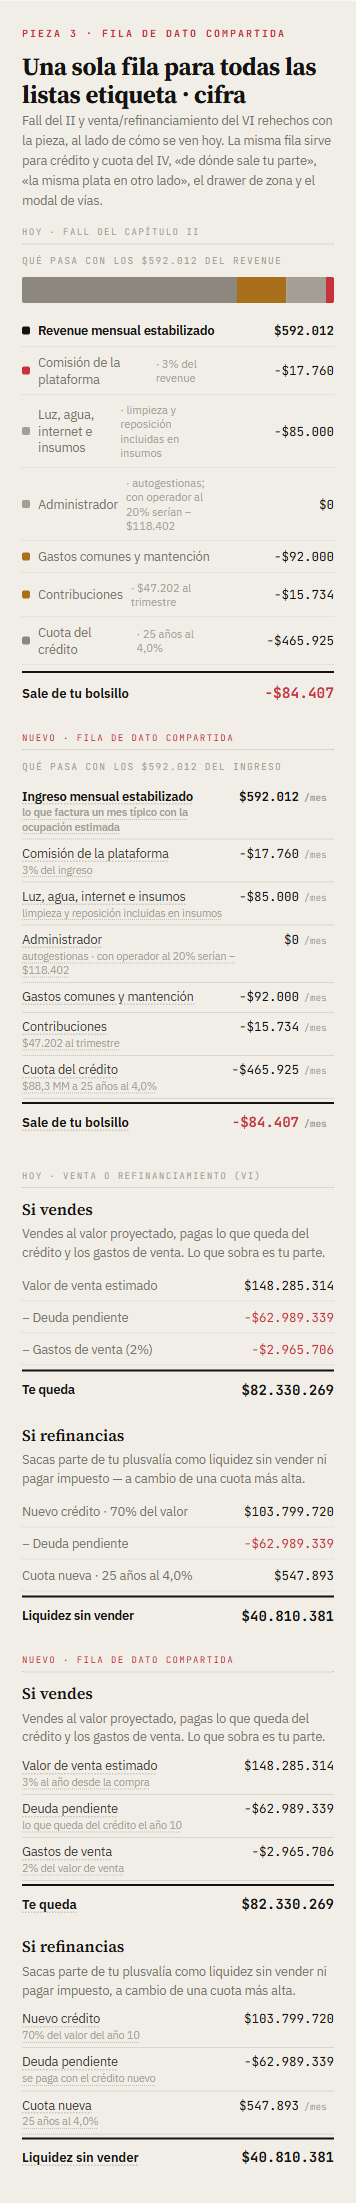
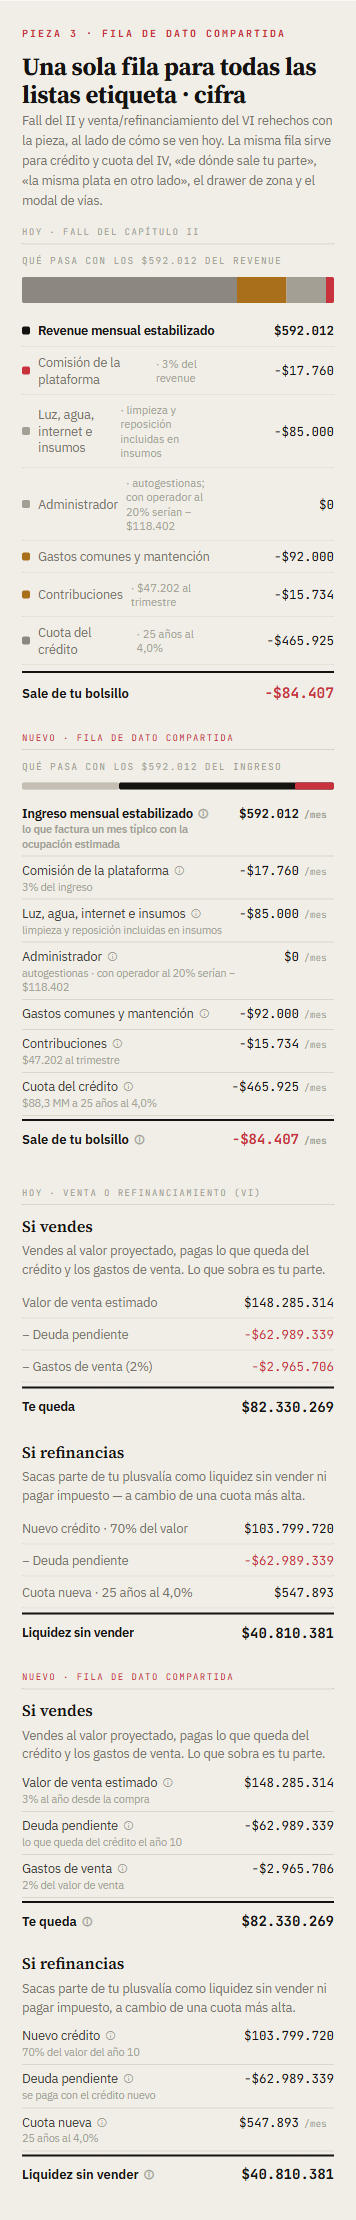
docs(wireframes): mockup de tablas — ⓘ en la fila de dato, barra semántica del Fall, tooltip de "cruza con mes negativo", "toca la celda" en 390

Changed region(s): [[0.0618, 0.0309, 0.9579, 0.9877], [0.7725, 0.1852, 0.8652, 0.2161], [0.4017, 0.9569, 0.4326, 0.9877]]

diff --git a/docs/wireframes/rediseno-informe/mockup-tablas.html b/docs/wireframes/rediseno-informe/mockup-tablas.html
@@ -493,6 +493,7 @@
   .mz-leg{display:flex;gap:18px;flex-wrap:wrap;margin-top:10px;font-family:var(--mono);font-size:9.5px;letter-spacing:.06em;color:var(--tx3)}
   .mz-leg span{display:inline-flex;align-items:center;gap:6px}
   .mz-leg i{width:11px;height:11px;border-radius:2px;border:1px solid var(--line);background:var(--paper2)}
+  .mz-leg .sh{display:none} [data-view="mobile"] .mz-leg .lg{display:none} [data-view="mobile"] .mz-leg .sh{display:inline}
   .mz-leg i.hoy{box-shadow:inset 0 0 0 2px var(--tx)} .mz-leg i.cruza{border-color:var(--good);position:relative} .mz-leg i.cruza::after{content:'';position:absolute;top:1px;right:1px;width:4px;height:4px;border-radius:50%;background:var(--good)}
 
   /* ── planilla ── */
@@ -518,7 +519,7 @@
   .drows{margin-top:4px}
   .drow{display:grid;grid-template-columns:1fr auto;align-items:baseline;gap:14px;min-height:30px;padding:5px 0;border-bottom:1px solid var(--line)}
   .drow .dk{font-size:12.5px;color:var(--tx2);line-height:1.35}
-  .drow .dk[title]{cursor:help;text-decoration:underline dotted var(--line2);text-underline-offset:3px}
+  .drow .tip{font-style:normal;font-family:var(--sans);font-size:11px;color:var(--tx4);margin-left:5px;cursor:help;vertical-align:1px}
   .drow .dk small{display:block;font-size:10.5px;color:var(--tx4);margin-top:1px;line-height:1.35}
   .drow .dv{font-family:var(--mono);font-size:12.5px;color:var(--tx);white-space:nowrap;text-align:right;font-variant-numeric:tabular-nums}
   .drow .dv em{font-style:normal;font-family:var(--mono);font-size:9.5px;color:var(--tx4);display:inline-block;width:30px;text-align:left;margin-left:5px}
@@ -526,6 +527,10 @@
   .drow.neg .dv{color:var(--signal)} .drow.cruza .dv{color:var(--good)}
   .drow.tot{border-top:2px solid var(--tx);border-bottom:none;margin-top:3px;padding-top:8px}
   .drow.tot .dk{color:var(--tx);font-weight:600;font-size:13px} .drow.tot .dv{font-weight:700;font-size:14px}
+  .fbar{position:relative;height:7px;margin:8px 0 10px;border-radius:2px;overflow:visible;cursor:help}
+  .fbar span{position:absolute;top:0;height:100%;border-radius:2px}
+  .fbar .fb-ing{left:0;background:var(--paper3);border:1px solid var(--line);box-sizing:border-box}
+  .fbar .fb-op{left:0;background:var(--line2)} .fbar .fb-cu{background:var(--tx)} .fbar .fb-rojo{background:var(--signal)}
   .venta2{display:grid;grid-template-columns:1fr 1fr;gap:24px} [data-view="mobile"] .venta2{grid-template-columns:1fr;gap:18px}
   .venta2 h4{font-family:var(--serif);font-size:16px;font-weight:600;margin-bottom:4px}
   .venta2 .ex{font-size:12.5px;color:var(--tx3);line-height:1.5;margin-bottom:6px;min-height:57px} [data-view="mobile"] .venta2 .ex{min-height:0}
@@ -538,11 +543,11 @@
   <div class="frozen"><b>Reglas de la pieza (para aprobar)</b>
     <ol>
       <li><strong>Matriz que se lee como matriz.</strong> Celdas cuadradas del mismo tamaño (88 px en PC, 53 px en 390), mono chica, cifra corta adentro (<code>−$312k</code>, <code>$1,2 MM</code>) y el valor exacto con veredicto en el tooltip. Ejes nombrados con dirección: arriba «→ más plazo» / «→ más tarifa» con los cuatro valores, a la izquierda «↓ más pie» / «↓ más ocupación» con los cuatro.</li>
-      <li><strong>Celda base inconfundible:</strong> anillo grueso en Ink y rótulo «hoy» pegado a la esquina; es la única con anillo. <strong>Cruza al veredicto de arriba:</strong> borde verde fino y punto. El mapa de calor queda muy tenue (máximo 8% de opacidad) y sigue el toggle Flujo/TIR del IV.</li>
+      <li><strong>Celda base inconfundible:</strong> anillo grueso en Ink y rótulo «hoy» pegado a la esquina; es la única con anillo. <strong>Cruza al veredicto de arriba:</strong> borde verde fino y punto. El mapa de calor queda muy tenue (máximo 8% de opacidad) y sigue el toggle Flujo/TIR del IV. Las celdas que cruzan con el mes en negativo lo dicen en el tooltip («cruza a COMPRAR aunque el mes quede en −$275: el veredicto lo decide el score, no el signo del mes»); en 390 la leyenda dice «toca la celda».</li>
       <li><strong>A 390 la matriz completa cabe sin scroll:</strong> cuatro celdas de 53 px más la cabecera de fila; «desliza la tabla» muere en las matrices.</li>
       <li><strong>Matriz del I transpuesta respecto de v2:</strong> tarifa en columnas (→ más tarifa), ocupación en filas (↓ más ocupación). Los percentiles van en palabras cortas en la cabecera («baja / mediana / alta / muy alta») y la frase completa («la mitad de la zona cobra menos que tú») en el tooltip. Cruza = el ingreso alcanza la frontera del dial (+4,3%): tarifa y ocupación mueven el ingreso por la misma razón, así que es la regla del motor, no una estimación.</li>
       <li><strong>Planilla:</strong> misma familia (mono, filas de 26 px, cabecera uppercase chica, totales en negrita con regla gruesa) pero es tabla y puede serlo: a 390 desliza con la primera columna fija, sin rótulo «desliza».</li>
-      <li><strong>Fila de dato compartida:</strong> una sola pieza para todas las listas etiqueta·cifra. Altura única (30 px), separador hairline, etiqueta sans con sub-línea gris opcional y tooltip (subrayado punteado), cifra mono alineada con la unidad en gris aparte, color solo semántico (rojo = sale de tu bolsillo, verde = cruza; el resto Ink; las deducciones de la venta van en Ink con su signo, ya no en rojo), total con regla gruesa y negrita. La barra apilada de colores del Fall del II se va: sus colores eran por categoría, no semánticos.</li>
+      <li><strong>Fila de dato compartida:</strong> una sola pieza para todas las listas etiqueta·cifra. Altura única (30 px), separador hairline, etiqueta sans con sub-línea gris opcional y tooltip con ⓘ junto a la etiqueta (solo donde hay tooltip), cifra mono alineada con la unidad en gris aparte, color solo semántico (rojo = sale de tu bolsillo, verde = cruza; el resto Ink; las deducciones de la venta van en Ink con su signo, ya no en rojo), total con regla gruesa y negrita. El Fall conserva una barra delgada sobre las filas con tres tonos semánticos: el largo total es el ingreso mensual, gris claro los costos de operar, Ink la cuota, y si la suma supera el ingreso el exceso va en Signal Red (la misma cifra que el total). Con flujo positivo no hay rojo y el tramo libre es lo que te queda. Sin colores de categoría ni leyenda.</li>
       <li><strong>Un solo CSS para LTR y STR, ancho 936 en todo.</strong> Este documento ya está a 936; las clases (<code>.matriz</code>, <code>.pl</code>, <code>.drow</code>) reemplazan a <code>.mx</code>, <code>.mx2</code>, <code>.tbl</code>, <code>.ind</code>, <code>.kv</code>, <code>.fall-row</code>, <code>.datarow</code>, <code>.leg-row</code> y <code>.lst</code>.</li>
     </ol>
   </div>
@@ -567,7 +572,7 @@
           <div class="mz-axis-y">↓ más pie</div>
           <div class="mz-grid"><div class="mz-corner"></div><div class="mz-colh">15<small>años</small></div><div class="mz-colh">20<small>años</small></div><div class="mz-colh">25<small>años</small></div><div class="mz-colh">30<small>años</small></div><div class="mz-rowh">15%<small>16,6 MM</small></div><div class="mz-cell neg" title="−$312.217 al mes · TIR 8,2% · BUSCAR OTRA · pie 15% ($16,6 MM) a 15 años" data-f="−$312k" data-t="8,2%" data-fn="-312217" data-tn="8.17"><span class="mz-v">−$312k</span></div><div class="mz-cell neg" title="−$186.816 al mes · TIR 9,2% · BUSCAR OTRA · pie 15% ($16,6 MM) a 20 años" data-f="−$187k" data-t="9,2%" data-fn="-186816" data-tn="9.16"><span class="mz-v">−$187k</span></div><div class="mz-cell neg" title="−$113.527 al mes · TIR 9,9% · AJUSTA SUPUESTOS · pie 15% ($16,6 MM) a 25 años" data-f="−$114k" data-t="9,9%" data-fn="-113527" data-tn="9.88"><span class="mz-v">−$114k</span></div><div class="mz-cell neg" title="−$66.238 al mes · TIR 10,4% · AJUSTA SUPUESTOS · pie 15% ($16,6 MM) a 30 años" data-f="−$66k" data-t="10,4%" data-fn="-66238" data-tn="10.41"><span class="mz-v">−$66k</span></div><div class="mz-rowh">20%<small>22,1 MM</small></div><div class="mz-cell neg" title="−$271.409 al mes · TIR 7,9% · BUSCAR OTRA · pie 20% ($22,1 MM) a 15 años" data-f="−$271k" data-t="7,9%" data-fn="-271409" data-tn="7.93"><span class="mz-v">−$271k</span></div><div class="mz-cell neg" title="−$153.384 al mes · TIR 8,7% · AJUSTA SUPUESTOS · pie 20% ($22,1 MM) a 20 años" data-f="−$153k" data-t="8,7%" data-fn="-153384" data-tn="8.74"><span class="mz-v">−$153k</span></div><div class="mz-cell neg hoy" title="−$84.407 al mes · TIR 9,3% · AJUSTA SUPUESTOS · pie 20% ($22,1 MM) a 25 años" data-f="−$84k" data-t="9,3%" data-fn="-84407" data-tn="9.31"><span class="mz-v">−$84k</span><span class="mz-hoy">hoy</span></div><div class="mz-cell neg" title="−$39.899 al mes · TIR 9,7% · AJUSTA SUPUESTOS · pie 20% ($22,1 MM) a 30 años" data-f="−$40k" data-t="9,7%" data-fn="-39899" data-tn="9.72"><span class="mz-v">−$40k</span></div><div class="mz-rowh">25%<small>27,6 MM</small></div><div class="mz-cell neg" title="−$230.601 al mes · TIR 7,7% · BUSCAR OTRA · pie 25% ($27,6 MM) a 15 años" data-f="−$231k" data-t="7,7%" data-fn="-230601" data-tn="7.74"><span class="mz-v">−$231k</span></div><div class="mz-cell neg" title="−$119.953 al mes · TIR 8,4% · AJUSTA SUPUESTOS · pie 25% ($27,6 MM) a 20 años" data-f="−$120k" data-t="8,4%" data-fn="-119953" data-tn="8.4"><span class="mz-v">−$120k</span></div><div class="mz-cell neg" title="−$55.286 al mes · TIR 8,9% · AJUSTA SUPUESTOS · pie 25% ($27,6 MM) a 25 años" data-f="−$55k" data-t="8,9%" data-fn="-55286" data-tn="8.86"><span class="mz-v">−$55k</span></div><div class="mz-cell neg" title="−$13.561 al mes · TIR 9,2% · AJUSTA SUPUESTOS · pie 25% ($27,6 MM) a 30 años" data-f="−$14k" data-t="9,2%" data-fn="-13561" data-tn="9.18"><span class="mz-v">−$14k</span></div><div class="mz-rowh">30%<small>33,1 MM</small></div><div class="mz-cell neg" title="−$189.793 al mes · TIR 7,6% · BUSCAR OTRA · pie 30% ($33,1 MM) a 15 años" data-f="−$190k" data-t="7,6%" data-fn="-189793" data-tn="7.57"><span class="mz-v">−$190k</span></div><div class="mz-cell neg" title="−$86.521 al mes · TIR 8,1% · AJUSTA SUPUESTOS · pie 30% ($33,1 MM) a 20 años" data-f="−$87k" data-t="8,1%" data-fn="-86521" data-tn="8.12"><span class="mz-v">−$87k</span></div><div class="mz-cell neg" title="−$26.166 al mes · TIR 8,5% · AJUSTA SUPUESTOS · pie 30% ($33,1 MM) a 25 años" data-f="−$26k" data-t="8,5%" data-fn="-26166" data-tn="8.49"><span class="mz-v">−$26k</span></div><div class="mz-cell cruza" title="$12.778 al mes · TIR 8,8% · COMPRAR · pie 30% ($33,1 MM) a 30 años" data-f="$13k" data-t="8,8%" data-fn="12778" data-tn="8.75"><span class="mz-v">$13k</span></div></div>
         </div>
-        <div class="mz-leg"><span><i class="hoy"></i>hoy · tu caso</span><span><i class="cruza"></i>cruza a Comprar</span><span><i></i>pasa el cursor: valor exacto y veredicto</span></div>
+        <div class="mz-leg"><span><i class="hoy"></i>hoy · tu caso</span><span><i class="cruza"></i>cruza a Comprar</span><span><i></i><span class="lg">pasa el cursor: valor exacto y veredicto</span><span class="sh">toca la celda: valor exacto y veredicto</span></span></div>
         <div class="mz-note" id="mz-note">Solo 30% de pie a 30 años cierra el mes en verde ($12.778) y es la única celda que llega a COMPRAR. Más pie y más plazo alivian la cuota; la tarifa o el precio son lo que da vuelta el signo.</div>
       </section>
 
@@ -580,9 +585,9 @@
         <div class="matriz" id="mz-i">
           <div class="mz-axis-x">→ más tarifa por noche</div>
           <div class="mz-axis-y">↓ más ocupación</div>
-          <div class="mz-grid"><div class="mz-corner"></div><div class="mz-colh" title="tres de cada cuatro avisos cobran más">$39k<small>baja</small></div><div class="mz-colh" title="la mitad de la zona cobra menos que tú">$46k<small>mediana</small></div><div class="mz-colh" title="solo uno de cada cuatro cobra más">$59k<small>alta</small></div><div class="mz-colh" title="solo uno de cada diez cobra más">$75k<small>muy alta</small></div><div class="mz-rowh" title="tres de cada cuatro deptos ocupan más">30%<small>baja</small></div><div class="mz-cell neg" title="−$315.287 al mes · BUSCAR OTRA · $39.147 por noche (tres de cada cuatro avisos cobran más) · ocupación 30% (tres de cada cuatro deptos ocupan más)"><span class="mz-v">−$315k</span></div><div class="mz-cell neg" title="−$259.107 al mes · BUSCAR OTRA · $45.552 por noche (la mitad de la zona cobra menos que tú) · ocupación 30% (tres de cada cuatro deptos ocupan más)"><span class="mz-v">−$259k</span></div><div class="mz-cell neg" title="−$143.779 al mes · AJUSTA SUPUESTOS · $58.700 por noche (solo uno de cada cuatro cobra más) · ocupación 30% (tres de cada cuatro deptos ocupan más)"><span class="mz-v">−$144k</span></div><div class="mz-cell neg cruza" title="−$275 al mes · COMPRAR · $75.061 por noche (solo uno de cada diez cobra más) · ocupación 30% (tres de cada cuatro deptos ocupan más)"><span class="mz-v">−$275</span></div><div class="mz-rowh" title="la estimación de mercado para tu depto">43%<small>estimada</small></div><div class="mz-cell neg" title="−$165.151 al mes · BUSCAR OTRA · $39.147 por noche (tres de cada cuatro avisos cobran más) · ocupación 43% (la estimación de mercado para tu depto)"><span class="mz-v">−$165k</span></div><div class="mz-cell neg hoy" title="−$84.407 al mes · AJUSTA SUPUESTOS · $45.552 por noche (la mitad de la zona cobra menos que tú) · ocupación 43% (la estimación de mercado para tu depto)"><span class="mz-v">−$84k</span><span class="mz-hoy">hoy</span></div><div class="mz-cell cruza" title="$81.347 al mes · COMPRAR · $58.700 por noche (solo uno de cada cuatro cobra más) · ocupación 43% (la estimación de mercado para tu depto)"><span class="mz-v">$81k</span></div><div class="mz-cell cruza" title="$287.596 al mes · COMPRAR · $75.061 por noche (solo uno de cada diez cobra más) · ocupación 43% (la estimación de mercado para tu depto)"><span class="mz-v">$288k</span></div><div class="mz-rowh" title="solo uno de cada cuatro ocupa más">58%<small>alta</small></div><div class="mz-cell cruza" title="$11.174 al mes · COMPRAR · $39.147 por noche (tres de cada cuatro avisos cobran más) · ocupación 58% (solo uno de cada cuatro ocupa más)"><span class="mz-v">$11k</span></div><div class="mz-cell cruza" title="$120.765 al mes · COMPRAR · $45.552 por noche (la mitad de la zona cobra menos que tú) · ocupación 58% (solo uno de cada cuatro ocupa más)"><span class="mz-v">$121k</span></div><div class="mz-cell cruza" title="$345.742 al mes · COMPRAR · $58.700 por noche (solo uno de cada cuatro cobra más) · ocupación 58% (solo uno de cada cuatro ocupa más)"><span class="mz-v">$346k</span></div><div class="mz-cell cruza" title="$625.681 al mes · COMPRAR · $75.061 por noche (solo uno de cada diez cobra más) · ocupación 58% (solo uno de cada cuatro ocupa más)"><span class="mz-v">$626k</span></div><div class="mz-rowh" title="solo uno de cada diez ocupa más">71%<small>muy alta</small></div><div class="mz-cell cruza" title="$156.813 al mes · COMPRAR · $39.147 por noche (tres de cada cuatro avisos cobran más) · ocupación 71% (solo uno de cada diez ocupa más)"><span class="mz-v">$157k</span></div><div class="mz-cell cruza" title="$290.234 al mes · COMPRAR · $45.552 por noche (la mitad de la zona cobra menos que tú) · ocupación 71% (solo uno de cada diez ocupa más)"><span class="mz-v">$290k</span></div><div class="mz-cell cruza" title="$564.127 al mes · COMPRAR · $58.700 por noche (solo uno de cada cuatro cobra más) · ocupación 71% (solo uno de cada diez ocupa más)"><span class="mz-v">$564k</span></div><div class="mz-cell cruza" title="$904.932 al mes · COMPRAR · $75.061 por noche (solo uno de cada diez cobra más) · ocupación 71% (solo uno de cada diez ocupa más)"><span class="mz-v">$905k</span></div></div>
+          <div class="mz-grid"><div class="mz-corner"></div><div class="mz-colh" title="tres de cada cuatro avisos cobran más">$39k<small>baja</small></div><div class="mz-colh" title="la mitad de la zona cobra menos que tú">$46k<small>mediana</small></div><div class="mz-colh" title="solo uno de cada cuatro cobra más">$59k<small>alta</small></div><div class="mz-colh" title="solo uno de cada diez cobra más">$75k<small>muy alta</small></div><div class="mz-rowh" title="tres de cada cuatro deptos ocupan más">30%<small>baja</small></div><div class="mz-cell neg" title="−$315.287 al mes · BUSCAR OTRA · $39.147 por noche (tres de cada cuatro avisos cobran más) · ocupación 30% (tres de cada cuatro deptos ocupan más)"><span class="mz-v">−$315k</span></div><div class="mz-cell neg" title="−$259.107 al mes · BUSCAR OTRA · $45.552 por noche (la mitad de la zona cobra menos que tú) · ocupación 30% (tres de cada cuatro deptos ocupan más)"><span class="mz-v">−$259k</span></div><div class="mz-cell neg" title="−$143.779 al mes · AJUSTA SUPUESTOS · $58.700 por noche (solo uno de cada cuatro cobra más) · ocupación 30% (tres de cada cuatro deptos ocupan más)"><span class="mz-v">−$144k</span></div><div class="mz-cell neg cruza" title="cruza a COMPRAR aunque el mes quede en −$275: el veredicto lo decide el score, no el signo del mes · $75.061 por noche (solo uno de cada diez cobra más) · ocupación 30% (tres de cada cuatro deptos ocupan más)"><span class="mz-v">−$275</span></div><div class="mz-rowh" title="la estimación de mercado para tu depto">43%<small>estimada</small></div><div class="mz-cell neg" title="−$165.151 al mes · BUSCAR OTRA · $39.147 por noche (tres de cada cuatro avisos cobran más) · ocupación 43% (la estimación de mercado para tu depto)"><span class="mz-v">−$165k</span></div><div class="mz-cell neg hoy" title="−$84.407 al mes · AJUSTA SUPUESTOS · $45.552 por noche (la mitad de la zona cobra menos que tú) · ocupación 43% (la estimación de mercado para tu depto)"><span class="mz-v">−$84k</span><span class="mz-hoy">hoy</span></div><div class="mz-cell cruza" title="$81.347 al mes · COMPRAR · $58.700 por noche (solo uno de cada cuatro cobra más) · ocupación 43% (la estimación de mercado para tu depto)"><span class="mz-v">$81k</span></div><div class="mz-cell cruza" title="$287.596 al mes · COMPRAR · $75.061 por noche (solo uno de cada diez cobra más) · ocupación 43% (la estimación de mercado para tu depto)"><span class="mz-v">$288k</span></div><div class="mz-rowh" title="solo uno de cada cuatro ocupa más">58%<small>alta</small></div><div class="mz-cell cruza" title="$11.174 al mes · COMPRAR · $39.147 por noche (tres de cada cuatro avisos cobran más) · ocupación 58% (solo uno de cada cuatro ocupa más)"><span class="mz-v">$11k</span></div><div class="mz-cell cruza" title="$120.765 al mes · COMPRAR · $45.552 por noche (la mitad de la zona cobra menos que tú) · ocupación 58% (solo uno de cada cuatro ocupa más)"><span class="mz-v">$121k</span></div><div class="mz-cell cruza" title="$345.742 al mes · COMPRAR · $58.700 por noche (solo uno de cada cuatro cobra más) · ocupación 58% (solo uno de cada cuatro ocupa más)"><span class="mz-v">$346k</span></div><div class="mz-cell cruza" title="$625.681 al mes · COMPRAR · $75.061 por noche (solo uno de cada diez cobra más) · ocupación 58% (solo uno de cada cuatro ocupa más)"><span class="mz-v">$626k</span></div><div class="mz-rowh" title="solo uno de cada diez ocupa más">71%<small>muy alta</small></div><div class="mz-cell cruza" title="$156.813 al mes · COMPRAR · $39.147 por noche (tres de cada cuatro avisos cobran más) · ocupación 71% (solo uno de cada diez ocupa más)"><span class="mz-v">$157k</span></div><div class="mz-cell cruza" title="$290.234 al mes · COMPRAR · $45.552 por noche (la mitad de la zona cobra menos que tú) · ocupación 71% (solo uno de cada diez ocupa más)"><span class="mz-v">$290k</span></div><div class="mz-cell cruza" title="$564.127 al mes · COMPRAR · $58.700 por noche (solo uno de cada cuatro cobra más) · ocupación 71% (solo uno de cada diez ocupa más)"><span class="mz-v">$564k</span></div><div class="mz-cell cruza" title="$904.932 al mes · COMPRAR · $75.061 por noche (solo uno de cada diez cobra más) · ocupación 71% (solo uno de cada diez ocupa más)"><span class="mz-v">$905k</span></div></div>
         </div>
-        <div class="mz-leg"><span><i class="hoy"></i>hoy · tu caso</span><span><i class="cruza"></i>cruza a Comprar</span><span><i></i>pasa el cursor: valor exacto y veredicto</span></div>
+        <div class="mz-leg"><span><i class="hoy"></i>hoy · tu caso</span><span><i class="cruza"></i>cruza a Comprar</span><span><i></i><span class="lg">pasa el cursor: valor exacto y veredicto</span><span class="sh">toca la celda: valor exacto y veredicto</span></span></div>
         <div class="mz-note">11 de las 16 combinaciones cruzan a COMPRAR y todas están a la derecha o debajo de tu celda: se cruza cobrando más o con más ocupación que la estimación, nunca con menos. Con la tarifa de la zona necesitas 58% de ocupación para dejar de poner plata.</div>
       </section>
 
@@ -612,7 +617,7 @@
             </table>
           </div>
           <div class="m-block"><div class="bt">c · Escenario de salida</div><div class="bq">Venta en el año 10, con la fila de dato compartida.</div>
-            <div class="drows"><div class="drow "><span class="dk" title="Precio × 1,03¹⁰">Valor del depto en el año 10<small>3% anual desde la compra</small></span><span class="dv">$148.285.314</span></div><div class="drow "><span class="dk" title="Lo que queda del crédito el año 10">Saldo de la deuda</span><span class="dv">−$62.989.339</span></div><div class="drow "><span class="dk" title="Corretaje">Comisión de venta<small>2% del valor</small></span><span class="dv">−$2.965.706</span></div><div class="drow tot"><span class="dk" title="Valor − deuda − comisión">Tu parte</span><span class="dv">$82.330.269</span></div></div>
+            <div class="drows"><div class="drow "><span class="dk">Valor del depto en el año 10<i class="tip" title="Precio × 1,03¹⁰" aria-label="Precio × 1,03¹⁰">ⓘ</i><small>3% anual desde la compra</small></span><span class="dv">$148.285.314</span></div><div class="drow "><span class="dk">Saldo de la deuda<i class="tip" title="Lo que queda del crédito el año 10" aria-label="Lo que queda del crédito el año 10">ⓘ</i></span><span class="dv">−$62.989.339</span></div><div class="drow "><span class="dk">Comisión de venta<i class="tip" title="Corretaje" aria-label="Corretaje">ⓘ</i><small>2% del valor</small></span><span class="dv">−$2.965.706</span></div><div class="drow tot"><span class="dk">Tu parte<i class="tip" title="Valor − deuda − comisión" aria-label="Valor − deuda − comisión">ⓘ</i></span><span class="dv">$82.330.269</span></div></div>
           </div>
           <div class="m-foot">Motor Franco · UF 40866 al 25 ago 2026 · umbral de cap rate STR: 5,0% (Franco, Santiago)</div>
         </div>
@@ -640,7 +645,7 @@
           </div>
           <div><div class="tag nuevo">Nuevo · fila de dato compartida</div>
             <div class="v-viz-t">Qué pasa con los $592.012 del ingreso</div>
-            <div class="drows"><div class="drow in"><span class="dk" title="ADR × ocupación × 365 ÷ 12">Ingreso mensual estabilizado<small>lo que factura un mes típico con la ocupación estimada</small></span><span class="dv">$592.012<em>/mes</em></span></div><div class="drow "><span class="dk" title="Airbnb cobra 3% al anfitrión">Comisión de la plataforma<small>3% del ingreso</small></span><span class="dv">−$17.760<em>/mes</em></span></div><div class="drow "><span class="dk" title="Costos directos declarados por ti">Luz, agua, internet e insumos<small>limpieza y reposición incluidas en insumos</small></span><span class="dv">−$85.000<em>/mes</em></span></div><div class="drow "><span class="dk" title="Comisión del administrador, si lo hubiera">Administrador<small>autogestionas · con operador al 20% serían −$118.402</small></span><span class="dv">$0<em>/mes</em></span></div><div class="drow "><span class="dk" title="Declarados por ti">Gastos comunes y mantención</span><span class="dv">−$92.000<em>/mes</em></span></div><div class="drow "><span class="dk" title="Contribuciones ÷ 3">Contribuciones<small>$47.202 al trimestre</small></span><span class="dv">−$15.734<em>/mes</em></span></div><div class="drow "><span class="dk" title="Dividendo del crédito hipotecario">Cuota del crédito<small>$88,3 MM a 25 años al 4,0%</small></span><span class="dv">−$465.925<em>/mes</em></span></div><div class="drow tot neg"><span class="dk" title="Ingreso − comisión − costos − cuota">Sale de tu bolsillo</span><span class="dv">−$84.407<em>/mes</em></span></div></div>
+            <div class="fbar" title="Ingreso $592.012 · costos de operar $210.494 · cuota $465.925 · sale de tu bolsillo $84.407"><span class="fb-ing" style="width:87.5%"></span><span class="fb-op" style="width:31.1%"></span><span class="fb-cu" style="left:31.1%;width:68.9%"></span><span class="fb-rojo" style="left:87.5%;width:12.5%"></span></div><div class="drows"><div class="drow in"><span class="dk">Ingreso mensual estabilizado<i class="tip" title="ADR × ocupación × 365 ÷ 12" aria-label="ADR × ocupación × 365 ÷ 12">ⓘ</i><small>lo que factura un mes típico con la ocupación estimada</small></span><span class="dv">$592.012<em>/mes</em></span></div><div class="drow "><span class="dk">Comisión de la plataforma<i class="tip" title="Airbnb cobra 3% al anfitrión" aria-label="Airbnb cobra 3% al anfitrión">ⓘ</i><small>3% del ingreso</small></span><span class="dv">−$17.760<em>/mes</em></span></div><div class="drow "><span class="dk">Luz, agua, internet e insumos<i class="tip" title="Costos directos declarados por ti" aria-label="Costos directos declarados por ti">ⓘ</i><small>limpieza y reposición incluidas en insumos</small></span><span class="dv">−$85.000<em>/mes</em></span></div><div class="drow "><span class="dk">Administrador<i class="tip" title="Comisión del administrador, si lo hubiera" aria-label="Comisión del administrador, si lo hubiera">ⓘ</i><small>autogestionas · con operador al 20% serían −$118.402</small></span><span class="dv">$0<em>/mes</em></span></div><div class="drow "><span class="dk">Gastos comunes y mantención<i class="tip" title="Declarados por ti" aria-label="Declarados por ti">ⓘ</i></span><span class="dv">−$92.000<em>/mes</em></span></div><div class="drow "><span class="dk">Contribuciones<i class="tip" title="Contribuciones ÷ 3" aria-label="Contribuciones ÷ 3">ⓘ</i><small>$47.202 al trimestre</small></span><span class="dv">−$15.734<em>/mes</em></span></div><div class="drow "><span class="dk">Cuota del crédito<i class="tip" title="Dividendo del crédito hipotecario" aria-label="Dividendo del crédito hipotecario">ⓘ</i><small>$88,3 MM a 25 años al 4,0%</small></span><span class="dv">−$465.925<em>/mes</em></span></div><div class="drow tot neg"><span class="dk">Sale de tu bolsillo<i class="tip" title="Ingreso − comisión − costos − cuota" aria-label="Ingreso − comisión − costos − cuota">ⓘ</i></span><span class="dv">−$84.407<em>/mes</em></span></div></div>
           </div>
         </div>
         <div class="dos" style="margin-top:34px">
@@ -661,9 +666,9 @@
           <div><div class="tag nuevo">Nuevo · fila de dato compartida</div>
             <div class="venta2">
   <div><h4>Si vendes</h4><p class="ex">Vendes al valor proyectado, pagas lo que queda del crédito y los gastos de venta. Lo que sobra es tu parte.</p>
-    <div class="drows"><div class="drow "><span class="dk" title="Precio × 1,03¹⁰">Valor de venta estimado<small>3% al año desde la compra</small></span><span class="dv">$148.285.314</span></div><div class="drow "><span class="dk" title="Saldo del crédito al vender">Deuda pendiente<small>lo que queda del crédito el año 10</small></span><span class="dv">−$62.989.339</span></div><div class="drow "><span class="dk" title="Comisión de corretaje">Gastos de venta<small>2% del valor de venta</small></span><span class="dv">−$2.965.706</span></div><div class="drow tot"><span class="dk" title="Valor − deuda − gastos">Te queda</span><span class="dv">$82.330.269</span></div></div></div>
+    <div class="drows"><div class="drow "><span class="dk">Valor de venta estimado<i class="tip" title="Precio × 1,03¹⁰" aria-label="Precio × 1,03¹⁰">ⓘ</i><small>3% al año desde la compra</small></span><span class="dv">$148.285.314</span></div><div class="drow "><span class="dk">Deuda pendiente<i class="tip" title="Saldo del crédito al vender" aria-label="Saldo del crédito al vender">ⓘ</i><small>lo que queda del crédito el año 10</small></span><span class="dv">−$62.989.339</span></div><div class="drow "><span class="dk">Gastos de venta<i class="tip" title="Comisión de corretaje" aria-label="Comisión de corretaje">ⓘ</i><small>2% del valor de venta</small></span><span class="dv">−$2.965.706</span></div><div class="drow tot"><span class="dk">Te queda<i class="tip" title="Valor − deuda − gastos" aria-label="Valor − deuda − gastos">ⓘ</i></span><span class="dv">$82.330.269</span></div></div></div>
   <div><h4>Si refinancias</h4><p class="ex">Sacas parte de tu plusvalía como liquidez sin vender ni pagar impuesto, a cambio de una cuota más alta.</p>
-    <div class="drows"><div class="drow "><span class="dk" title="Loan-to-value 70%">Nuevo crédito<small>70% del valor del año 10</small></span><span class="dv">$103.799.720</span></div><div class="drow "><span class="dk" title="Saldo del crédito al refinanciar">Deuda pendiente<small>se paga con el crédito nuevo</small></span><span class="dv">−$62.989.339</span></div><div class="drow "><span class="dk" title="Anualidad del crédito nuevo">Cuota nueva<small>25 años al 4,0%</small></span><span class="dv">$547.893<em>/mes</em></span></div><div class="drow tot"><span class="dk" title="Crédito nuevo − deuda pendiente">Liquidez sin vender</span><span class="dv">$40.810.381</span></div></div></div>
+    <div class="drows"><div class="drow "><span class="dk">Nuevo crédito<i class="tip" title="Loan-to-value 70%" aria-label="Loan-to-value 70%">ⓘ</i><small>70% del valor del año 10</small></span><span class="dv">$103.799.720</span></div><div class="drow "><span class="dk">Deuda pendiente<i class="tip" title="Saldo del crédito al refinanciar" aria-label="Saldo del crédito al refinanciar">ⓘ</i><small>se paga con el crédito nuevo</small></span><span class="dv">−$62.989.339</span></div><div class="drow "><span class="dk">Cuota nueva<i class="tip" title="Anualidad del crédito nuevo" aria-label="Anualidad del crédito nuevo">ⓘ</i><small>25 años al 4,0%</small></span><span class="dv">$547.893<em>/mes</em></span></div><div class="drow tot"><span class="dk">Liquidez sin vender<i class="tip" title="Crédito nuevo − deuda pendiente" aria-label="Crédito nuevo − deuda pendiente">ⓘ</i></span><span class="dv">$40.810.381</span></div></div></div>
 </div>
           </div>
         </div>
